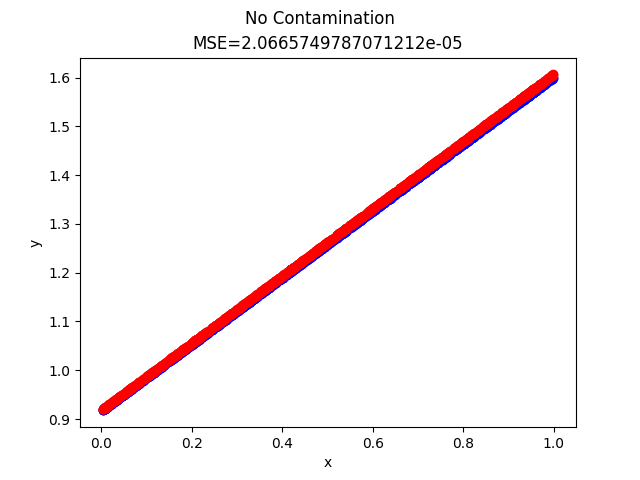
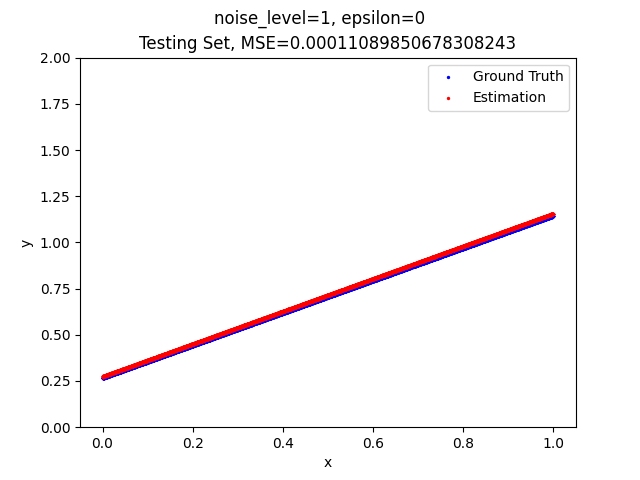
more tests

diff --git a/main.py b/main.py
@@ -1,6 +1,7 @@
 import numpy as np
 from math import ceil
 from matplotlib import pyplot as plt
+from statistics import stdev
 from typing import Tuple
 
 
@@ -60,48 +61,106 @@ def generate_X_and_y(w: np.ndarray, size: int, noise_level: float = 0) -> Tuple[
     # return X and y, respectively
     rng = np.random.default_rng()
     X = rng.random((size, w.shape[0] - 1))
-    y = np.c_[np.ones(size), X].dot(w) + rng.normal(0, noise_level, size)
+    y = np.c_[np.ones(size), X].dot(w)
+    y += rng.normal(0, stdev(y) * noise_level, size)
     return X, y
 
 
-def test_no_noise_no_contamination():
+def test_no_noise_no_contamination(training_size: int = 100, testing_size: int = 900):
     w = generate_random_weights()
-    X_training, y_training = generate_X_and_y(w, 1000, 0)
-    X_testing, y_testing = generate_X_and_y(w, 1000, 0)
-    w_bar = mini_batch_gradient_descent(X_training, y_training, batch_size=100)
+    X_training, y_training = generate_X_and_y(w, training_size, 0)
+    X_testing, y_testing = generate_X_and_y(w, testing_size, 0)
+    w_bar = mini_batch_gradient_descent(X_training, y_training, batch_size=50)
     y_bar = predict(X_testing, w_bar)
     mse = mean_squared_error(y_bar, y_testing)
     print(f"True weight vector: {w}")
     print(f"Estimated weight vector: {w_bar}")
     plt.figure()
-    plt.scatter(X_testing[:, 0], y_testing, c="blue", label="Ground Truth")
-    plt.scatter(X_testing[:, 0], y_bar, c="red", label="Estimation")
-    plt.suptitle("No Noise, No Contamination")
-    plt.title(f"MSE={mse}")
+    plt.scatter(X_training[:, 0], y_training, s=2)
+    plt.suptitle("noise_level=0, epsilon=0")
+    plt.title("Training Set")
     plt.xlabel("x")
     plt.ylabel("y")
+    plt.ylim(0, w.shape[0])
+    plt.savefig("no_noise_no_contamination_training")
+    plt.figure()
+    plt.scatter(X_testing[:, 0], y_testing, s=2, c="blue", label="Ground Truth")
+    plt.scatter(X_testing[:, 0], y_bar, s=2, c="red", label="Estimation")
+    plt.suptitle("noise_level=0, epsilon=0")
+    plt.title(f"Testing Set, MSE={mse}")
+    plt.xlabel("x")
+    plt.ylabel("y")
+    plt.ylim(0, w.shape[0])
+    plt.legend()
     plt.savefig("no_noise_no_contamination")
 
 
-def test_no_contamination():
+def test_no_contamination(training_size: int = 100, testing_size: int = 900, noise_level: float = 0.1):
     w = generate_random_weights()
-    X_training, y_training = generate_X_and_y(w, 1000, 0.1)
-    X_testing, y_testing = generate_X_and_y(w, 1000, 0)
-    w_bar = mini_batch_gradient_descent(X_training, y_training, batch_size=100)
+    X_training, y_training = generate_X_and_y(w, training_size, noise_level)
+    X_testing, y_testing = generate_X_and_y(w, testing_size, 0)
+    w_bar = mini_batch_gradient_descent(X_training, y_training, batch_size=50)
     y_bar = predict(X_testing, w_bar)
     mse = mean_squared_error(y_bar, y_testing)
     print(f"True weight vector: {w}")
     print(f"Estimated weight vector: {w_bar}")
     plt.figure()
-    plt.scatter(X_testing[:, 0], y_testing, c="blue", label="Ground Truth")
-    plt.scatter(X_testing[:, 0], y_bar, c="red", label="Estimation")
-    plt.suptitle("No Contamination")
-    plt.title(f"MSE={mse}")
+    plt.scatter(X_training[:, 0], y_training, s=2)
+    plt.suptitle(f"noise_level={noise_level}, epsilon=0")
+    plt.title("Training Set")
     plt.xlabel("x")
     plt.ylabel("y")
+    plt.ylim(0, w.shape[0])
+    plt.savefig("no_contamination_training")
+    plt.figure()
+    plt.scatter(X_testing[:, 0], y_testing, s=2, c="blue", label="Ground Truth")
+    plt.scatter(X_testing[:, 0], y_bar, s=2, c="red", label="Estimation")
+    plt.suptitle(f"noise_level={noise_level}, epsilon=0")
+    plt.title(f"Testing Set, MSE={mse}")
+    plt.xlabel("x")
+    plt.ylabel("y")
+    plt.ylim(0, w.shape[0])
+    plt.legend()
     plt.savefig("no_contamination")
 
 
+def test_random_contamination(training_size: int = 100, testing_size: int = 900, noise_level: float = 0.1, epsilon: float = 0.1):
+    rng = np.random.default_rng()
+    w = generate_random_weights()
+    X_training, y_training = generate_X_and_y(w, training_size, noise_level)
+    X_contamination = rng.random((int(training_size * epsilon), 1))
+    Y_contamination = rng.random(int(training_size * epsilon)) * w.shape[0]
+    indices = rng.choice(training_size, int(training_size * epsilon), False)
+    X_training[indices] = X_contamination
+    y_training[indices] = Y_contamination
+    X_testing, y_testing = generate_X_and_y(w, 1000, 0)
+    w_bar = mini_batch_gradient_descent(
+        X_training, y_training, batch_size=100, epsilon=epsilon)
+    y_bar = predict(X_testing, w_bar)
+    mse = mean_squared_error(y_bar, y_testing)
+    print(f"True weight vector: {w}")
+    print(f"Estimated weight vector: {w_bar}")
+    plt.figure()
+    plt.scatter(X_training[:, 0], y_training, s=2)
+    plt.suptitle(f"noise_level={noise_level}, epsilon={epsilon}")
+    plt.title("Training Set")
+    plt.xlabel("x")
+    plt.ylabel("y")
+    plt.ylim(0, w.shape[0])
+    plt.savefig("random_contamination_training")
+    plt.figure()
+    plt.scatter(X_testing[:, 0], y_testing, s=2, c="blue", label="Ground Truth")
+    plt.scatter(X_testing[:, 0], y_bar, s=2, c="red", label="Estimation")
+    plt.suptitle(f"noise_level={noise_level}, epsilon={epsilon}")
+    plt.title(f"Testing Set, MSE={mse}")
+    plt.xlabel("x")
+    plt.ylabel("y")
+    plt.ylim(0, w.shape[0])
+    plt.legend()
+    plt.savefig("random_contamination")
+
+
 if __name__ == "__main__":
-    test_no_noise_no_contamination()
-    test_no_contamination()
+    test_no_noise_no_contamination(1000, 9000)
+    test_no_contamination(1000, 9000, 1)
+    test_random_contamination(1000, 9000, 1, 0.8)
